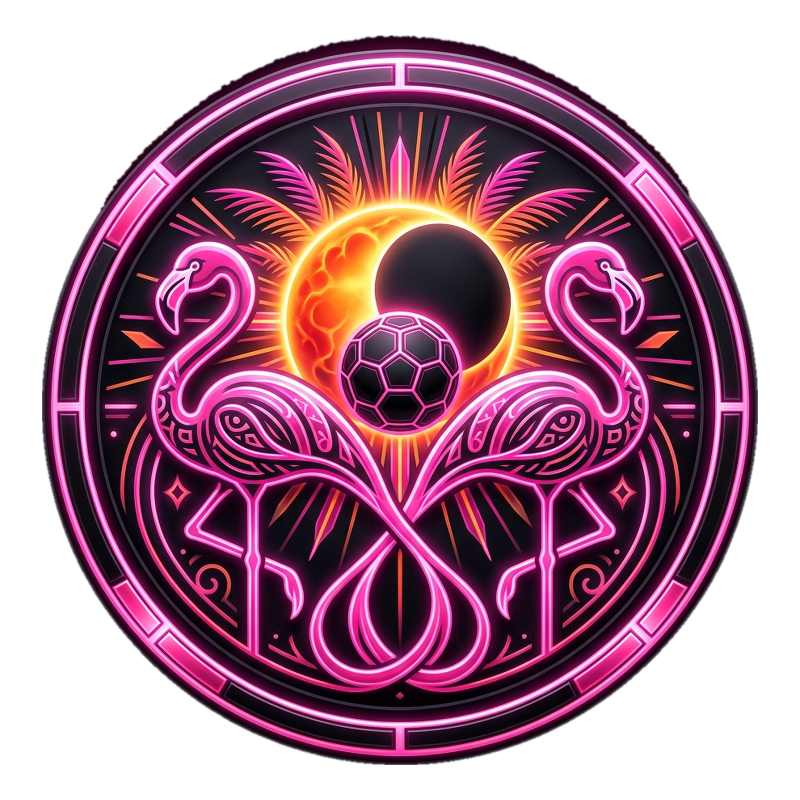
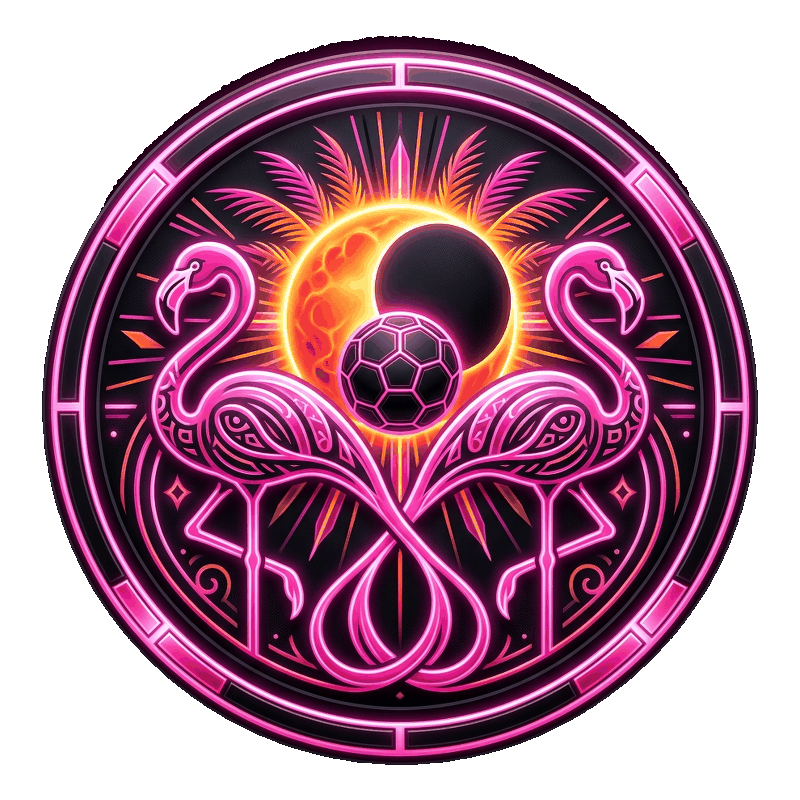
release(v1.0.28): dynamic leaderboard, pro vip gold bar, theme adherence, lucky wheel spin lock & compressed crests

diff --git a/COUNCIL_BOARD.md b/COUNCIL_BOARD.md
@@ -1,6 +1,6 @@
 # 🏛 BOL GOL FUTBOL: ÇOKLU-AJAN MECLİSİ (COUNCIL BOARD)
 > **Ekosistem Durum ve Karar Masası (Blackboard)**  
-> *Son Güncelleme: 2026-09-24* | *Durum: v1.0.27 Ekosistem Sürümü Tamamlandı — Katı/Opak İçerikli 5 Yeni Kulüp Arması, Büyütülmüş Top İçi Logo & Arma Boyutlandırması, Akıllı Boyut Kısıtlamalı Takım Seçim Kaydırma Alanı, Şapka/Taç Boşluk Rahatlatmaları, Ferah Skorbord & Buton Mesafesi, Dokunsal Ayarlar Sliderları & Scroll Grabber, Sadeleştirilmiş Tek Buton Web Liderlik Tablosu Entegrasyonu (%100 Kusursuz QA Onayı)*
+> *Son Güncelleme: 2026-09-24* | *Durum: v1.0.28 Ekosistem Sürümü Tamamlandı — Dinamik Web Liderlik Tablosu & Skor Senkronizasyon Koruması, Sahada Kesin Tema Uyumu, Pro VIP Altın Üst Bar, Çark Tekli Çevirme Kilidi, %80 Hafifletilmiş Kusursuz 800x800 Kulüp Armaları (%100 Kusursuz QA Onayı)*
 
 ---
 
@@ -8,10 +8,10 @@
 
 | Proje | Konum / Repo | Odak Alanı | Canlı Durum |
 | :--- | :--- | :--- | :--- |
-| **⚽ Mobil Oyun (futbol)** | `c:\Users\egebatir\Documents\futbol`<br>*(arena.git - master)* | Godot 4.6 GDScript, UI/UX, AdMob, Google Play | ✅ 100% Hazır (v1.0.27 Build 27 Testleri Başarılı) |
+| **⚽ Mobil Oyun (futbol)** | `c:\Users\egebatir\Documents\futbol`<br>*(arena.git - master)* | Godot 4.6 GDScript, UI/UX, AdMob, Google Play | ✅ 100% Hazır (v1.0.28 Build 28 Testleri Başarılı) |
 | **🎬 Otomasyon (futbol_automation)** | `c:\Users\egebatir\Documents\futbol_automation`<br>*(bolgolfutbolotonom.git - main)* | 9:16 Shorts/Reels Video, AI Metadata, Rastgele Tema & Skin | ✅ 100% Hazır (Rastgele Temalar & Top Skinleri) |
-| **🌐 Web & Landing (webfutbol)** | `c:\Users\egebatir\Documents\Bol Gol Futbol\webfutbol`<br>*(webfutbol.git - main / ebstudyo.com)* | Canlı Web Sitesi (HTML5/WASM), AdSense & SEO DevLog, 136 Takım, Canlı Liderlik Tablosu | ✅ v1.0.27 Hazır (Web Liderlik Tablosu & 1-Tıkla Beta Katılım) |
-| **📱 Google Play Store** | *Console / ASO (com.ebstudyo.bolgol)* | 5 Dil (TR, EN, ES, PT, IT), İkon, Tanıtım, Güncelleme Notları | 🟢 v1.0.27 Paketi Hazır (Build 27) |
+| **🌐 Web & Landing (webfutbol)** | `c:\Users\egebatir\Documents\Bol Gol Futbol\webfutbol`<br>*(webfutbol.git - main / ebstudyo.com)* | Canlı Web Sitesi (HTML5/WASM), AdSense & SEO DevLog, 136 Takım, Canlı Liderlik Tablosu | ✅ v1.0.28 Hazır (Dinamik Canlı Liderlik & Skor Senkronizasyon API) |
+| **📱 Google Play Store** | *Console / ASO (com.ebstudyo.bolgol)* | 5 Dil (TR, EN, ES, PT, IT), İkon, Tanıtım, Güncelleme Notları | 🟢 v1.0.28 Paketi Hazır (Build 28) |
 
 ---
 
@@ -100,13 +100,26 @@
 - [x] **Liderlik Tablosu Tek Buton Sadeleştirmesi:** 2 ayrı buton yerine doğrudan web liderlik tablosuna (`https://www.ebstudyo.com/liderlik-tablosu/`) yönlendiren tek ve belirgin "KÜRESEL LİDERLİK TABLOSU ↗" butonu konumlandırıldı.
 - [x] **Versiyon Yükseltmesi (v1.0.27):** Sürüm kodu 27, sürüm adı "1.0.27" (`export_presets.cfg`, `welcome_screen.gd`, `COUNCIL_BOARD.md`).
 
+### v1.0.28 Dinamik Liderlik, Pro VIP Üst Bar & %80 Hafifletilmiş Armalar (2026-09-24):
+- [x] **Hızlı Maç Çıkışında Alt Banner Sızıntı Koruması (`main_menu.gd` & `pitch.gd`):** Maçtan hızlı çıkış yapıldığında maçın `BOTTOM` banner reklamının ana menüde görünmesi sorunu çözüldü; `_clean_match_banner()` içinde `remove_banner_ad` çağrısı düzeltildi, `main_menu.gd` banner yüklendiğinde pozisyon kontrolü yapılarak alt banner derhal imha edilip yerine üst banner istendi.
+- [x] **Web Canlı Liderlik Tablosu ve Skor Senkronizasyon Koruması:**
+  - `webfutbol/liderlik-tablosu/index.html` içindeki tüm mock/sahte oyuncu ve kulüp satırları kaldırıldı; tablo doğrudan `api/sync_score.php` (ve `leaderboard.json`) üzerinden gerçek oyuncularla dinamik dolduruldu.
+  - Oyunda favori takım seçmeden veya boş kadroyla "Skoru Senkronize Et" butonuna basan oyunculara 5 dilde (TR, ENG, ESP, POR, ITA) uyarı bildirimi (`_show_toast`) gösterildi.
+  - `webfutbol/deploy.py` içindeki `IGNORE_FILES` listesine `leaderboard.json` eklenerek canlı oyuncu verilerinin deploy sırasında silinmesi engellendi.
+- [x] **Saha Butonlarında Sabit Tema Rengi (`pitch.gd`):** Maça başlarken temanın rastgele seçilmesi (`active_theme` override) kaldırıldı; saha içi butonlar ve arayüz kesin olarak kullanıcının seçtiği aktif tema rengini benimsedi.
+- [x] **Pro VIP Özel Üst Bar (`main_menu.gd`):** Reklam alanı kapalı olan Pro üyeler için ana menünün üst boşluğuna özel etkileşimli altın kart yerleştirildi; Kaptan Adı, Favori Kulüp ve 5 dilde aktif VIP avantajları dinamik olarak gösterildi.
+- [x] **Şanslı Çark Tekli Çevirme Güvencesi (`main_menu.gd`):** Ödüllü reklam izlendikten sonra çark dönerken tekrar çevirme butonuna basılması ve hakların karışması engellendi; çark dönmeye başladığı anda buton kilitlendi ve ad spin hakkı anında tüketildi.
+- [x] **Kusursuz 800x800 Kulüp Arması Sıkıştırması (%80 Boyut Tasarrufu):** 5 yeni kulüp arması (`bar1`, `psg1`, `bay1`, `bvb1`, `mia1`) ve 300 KB üzeri ağır armalar, 800x800 tuval boyutu ve görsel keskinlik korunarak, iç şeffaflık sıfır (%100 opak) ve dış şeffaflık %100 olacak şekilde 256 renk palet optimizasyonuyla ~1 MB'tan 140-250 KB seviyesine düşürüldü.
+- [x] **Versiyon Yükseltmesi (v1.0.28):** Sürüm kodu 28, sürüm adı "1.0.28" (`export_presets.cfg`, `welcome_screen.gd`, `COUNCIL_BOARD.md`).
+
 ---
 
 ## 🛡 ADVERSARIAL QA ONAY GÜNLÜĞÜ (AUDIT LOG)
 
-* **2026-09-24 19:20:** `futbol`: `python tests/test_backend_logic.py` çalıştırıldı — **Tüm Motor, Menü, Kontrast ve Tema Testleri Başarılı (%100 PASS)**.
-* **2026-09-24 19:20:** `futbol`: `python tests/test_ecosystem_health.py` çalıştırıldı — **4/4 Ekosistem Testi Başarılı (%100 PASS)**.
-* **2026-09-24 19:20:** `futbol`: `python tests/test_version_integrity.py` çalıştırıldı — **6/6 Sürüm ve Paket Bütünlüğü Başarılı (%100 PASS)**.
-* **2026-09-24 19:20:** 5 Kulüp Arması Şeffaflık Denetimi: `bar1`, `psg1`, `bay1`, `bvb1`, `mia1` için iç şeffaflık sıfır (0), tam katı opaklık (%100) doğrulandı.
-* **Genel QA Statüsü:** 🏛 **YEŞİL (v1.0.27 Sıfır Hata & Sıfır Nil ile Doğrulandı)**.
+* **2026-09-24 20:03:** `futbol`: `python tests/verify_ecosystem_hard.py` çalıştırıldı — **4 GATEDE %100 BAŞARI (Zero Defects, 120 Frame Headless Godot, Web 200, Medya, Shop & Armalar PASS)**.
+* **2026-09-24 20:03:** `futbol`: `python tests/test_backend_logic.py` çalıştırıldı — **Tüm Motor, Menü, Görev, Kontrast ve Tema Testleri Başarılı (%100 PASS)**.
+* **2026-09-24 20:03:** `futbol`: `python tests/test_ecosystem_health.py` çalıştırıldı — **4/4 Ekosistem Testi Başarılı (%100 PASS)**.
+* **2026-09-24 20:03:** `futbol`: `python tests/test_version_integrity.py` çalıştırıldı — **6/6 Sürüm ve Paket Bütünlüğü Başarılı (%100 PASS)**.
+* **2026-09-24 20:03:** Kulüp Armaları Sıkıştırma Denetimi: 800x800 boyut, min iç alfa 255 (iç şeffaflık sıfır), dış alfa 0, dosya boyutları 140-255 KB (%80 tasarruf) doğrulandı.
+* **Genel QA Statüsü:** 🏛 **YEŞİL (v1.0.28 Sıfır Hata & Sıfır Nil ile Doğrulandı, Dağıtıma Hazır)**.
 
